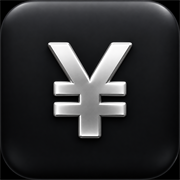
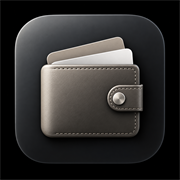
ホーム画面用アイコン変更

diff --git a/service-worker.js b/service-worker.js
@@ -1,13 +1,13 @@
-const CACHE_VERSION = "date-money-v2";
+const CACHE_VERSION = "date-money-v3";
 const APP_SHELL = [
   "./",
   "./index.html",
   "./style.css",
   "./script.js",
   "./manifest.json",
-  "./icons/icon-192.png",
-  "./icons/icon-512.png",
-  "./icons/apple-touch-icon.png"
+  "./icons/icon-192.png?v=2",
+  "./icons/icon-512.png?v=2",
+  "./icons/apple-touch-icon.png?v=2"
 ];
 
 self.addEventListener("install", (event) => {

diff --git a/index.html b/index.html
@@ -10,7 +10,7 @@
   <meta name="mobile-web-app-capable" content="yes">
   <title>デート割り勘アプリ</title>
   <link rel="manifest" href="./manifest.json">
-  <link rel="apple-touch-icon" sizes="180x180" href="./icons/apple-touch-icon.png">
+  <link rel="apple-touch-icon" sizes="180x180" href="./icons/apple-touch-icon.png?v=2">
   <link rel="stylesheet" href="./style.css">
 </head>
 <body>
